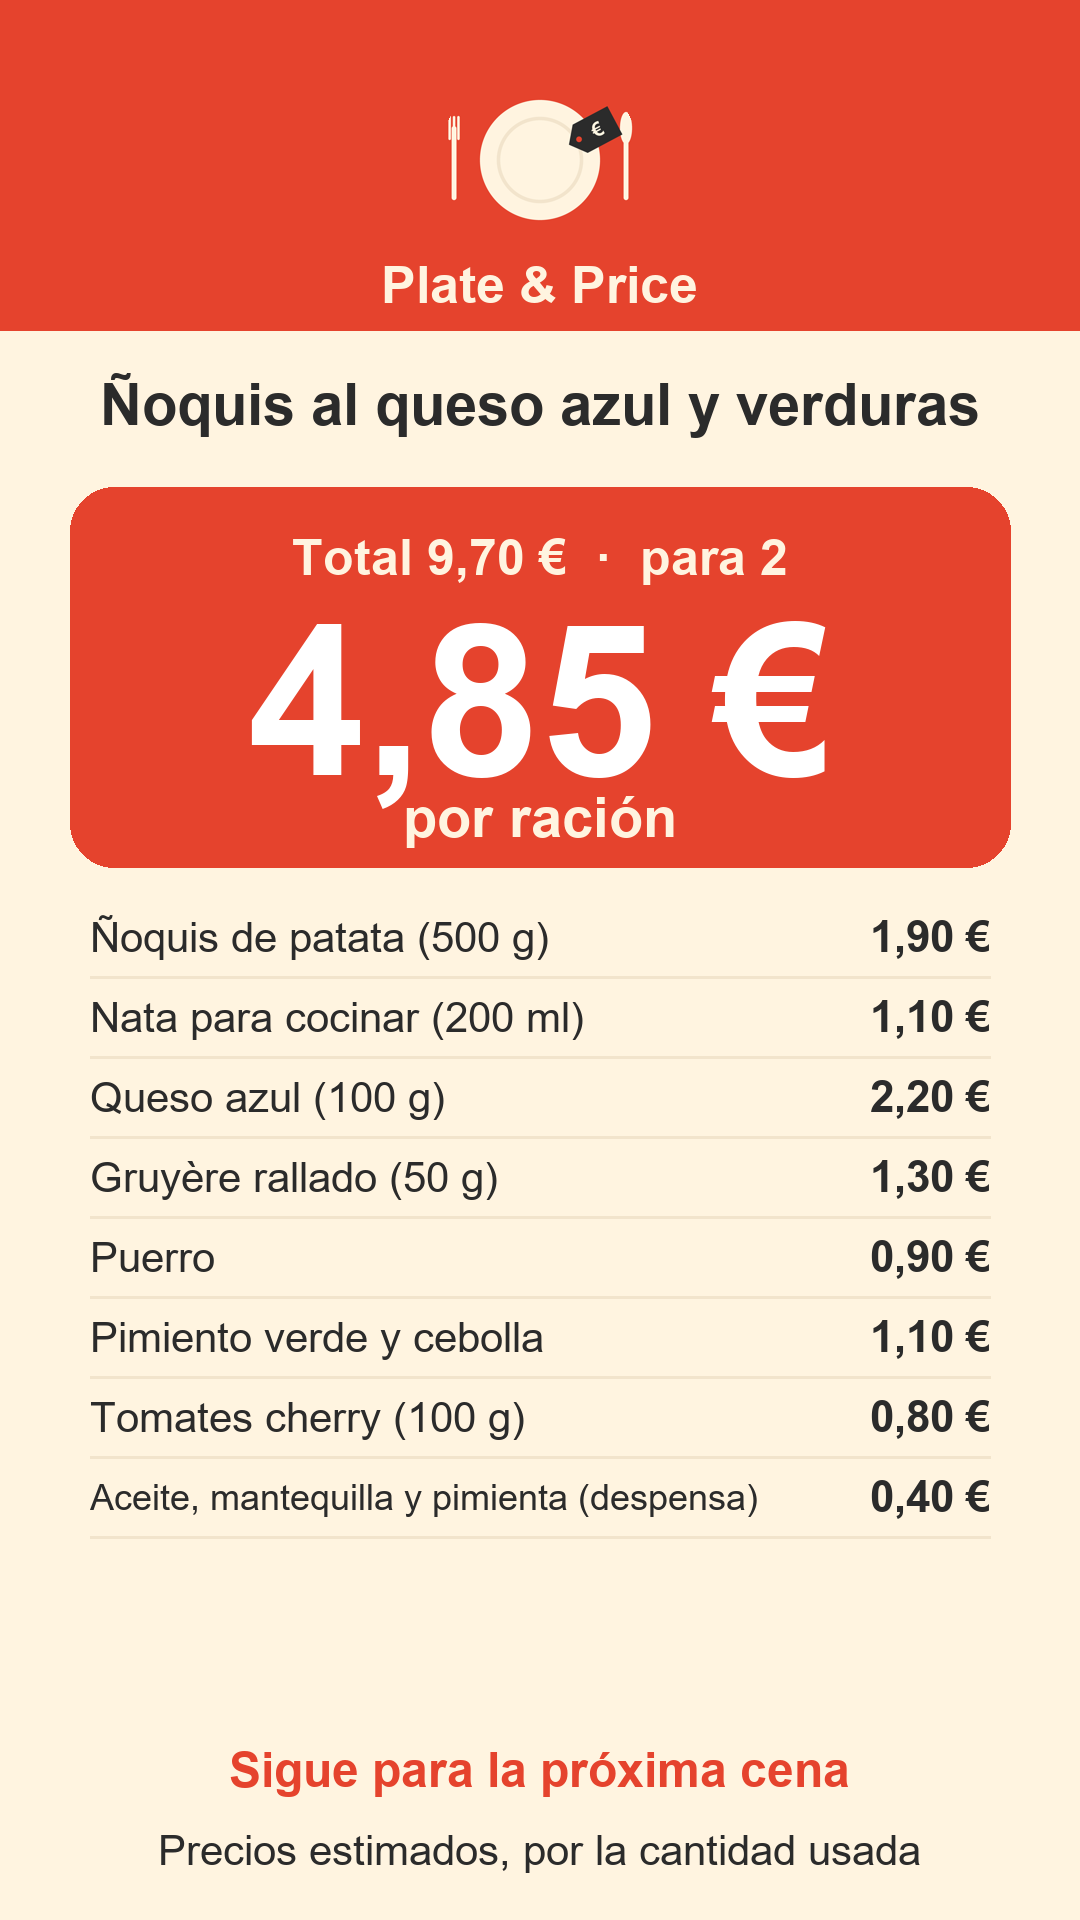
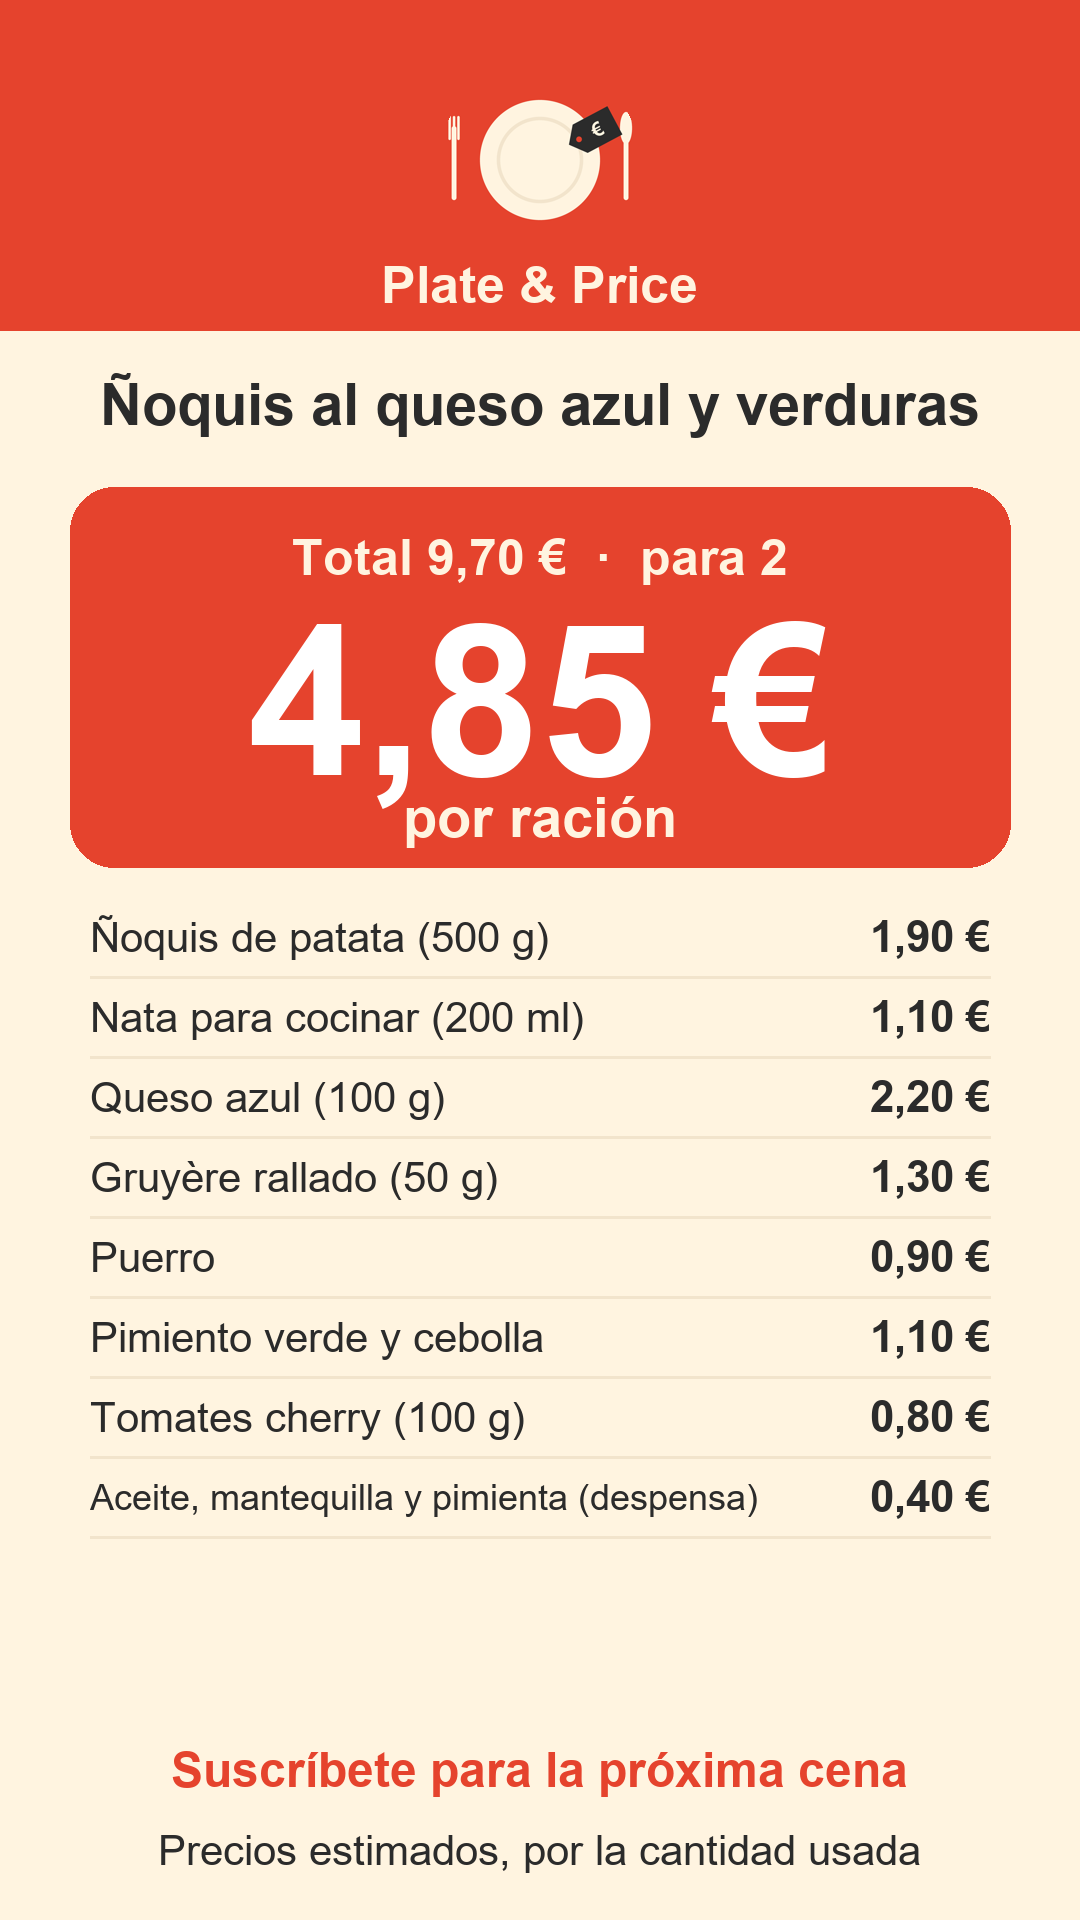
feat: gnocchi pass 3 scores and final tweaks (caption fade, Spanish script, end card follow line)

Changed region(s): [[0.1528, 0.9062, 0.8556, 0.9375]]

diff --git a/plate-and-price/scripts/make_description.py b/plate-and-price/scripts/make_description.py
@@ -22,7 +22,7 @@ T = {
         "total": "Total {total} for {n}, which is {per} a serving.",
         "chapters": "Chapters",
         "music": "Music: {song} by {artist} ({license})",
-        "short_price": "The whole dinner for {n} costs about {total}, so {per} a serving.",
+        "short_price": "The whole dinner for {n} costs about {total}, so {per} a serving (estimated prices, for the amount used).",
     },
     "es": {
         "short_title": "{title} #Shorts",
@@ -31,7 +31,7 @@ T = {
         "total": "Total {total} para {n}, es decir {per} por ración.",
         "chapters": "Capítulos",
         "music": "Música: {song} de {artist} ({license})",
-        "short_price": "La cena entera para {n} cuesta unos {total}, o sea {per} por ración.",
+        "short_price": "La cena entera para {n} cuesta unos {total}, o sea {per} por ración (precios estimados, por la cantidad usada).",
     },
 }
 

diff --git a/plate-and-price/scripts/edit_short.py b/plate-and-price/scripts/edit_short.py
@@ -57,7 +57,7 @@ def write_ass(path, cues, w, h, st):
         f"{st.get('margin_l', 60)},{st.get('margin_r', 60)},{st['margin_v']},1\n\n"
         "[Events]\nFormat: Layer,Start,End,Style,Name,MarginL,MarginR,MarginV,Effect,Text\n"
     )
-    lines = [f"Dialogue: 0,{ass_time(a)},{ass_time(b)},Cap,,0,0,0,,{{\\fad(120,120)}}{t.replace(chr(10), chr(92) + 'N')}"
+    lines = [f"Dialogue: 0,{ass_time(a)},{ass_time(b)},Cap,,0,0,0,,{{\\fad(120,0)}}{t.replace(chr(10), chr(92) + 'N')}"
              for a, b, t in cues]
     Path(path).write_text(head + "\n".join(lines) + "\n", encoding="utf-8")
 

diff --git a/plate-and-price/scripts/make_endcard.py b/plate-and-price/scripts/make_endcard.py
@@ -126,6 +126,8 @@ def draw(video_id, kind, lang):
         d.text((cx, 640), money(per, cur), font=font(190), fill="white", anchor="mm")
         d.text((cx, 770), lab["per"], font=font(56), fill=c["cream"], anchor="mm")
         d.text((cx, 850), lab["serves"].format(n=price["servings"]), font=font(40), fill=c["cream"], anchor="mm")
+        if lab.get("cta"):
+            d.text((cx, 940), lab["cta"], font=font(44), fill="white", anchor="mm")
 
     out = vdir / f"endcard_{kind}_{lang}.png"
     img.save(out)

diff --git a/plate-and-price/review/history/seven-agent-scores.md b/plate-and-price/review/history/seven-agent-scores.md
@@ -40,3 +40,18 @@ Shared agents (engagement, craft, audio-voice on the music-only short) give one 
 | **average** | **6.8** | **6.8** | **6.8** | **6.6** |
 Open fixes from this pass (not yet applied): amounts in the captions, richer Spanish lines, hook and final shot not both Gruyere, murky leek shots, short descriptions with ingredients and budget tags, "whole packs cost more" on the end cards.
 Udon shorts: the first review pass was started and its results are not recorded here yet.
+
+## gnocci-blue-cheese-and-veggies, third pass (captions larger and warm yellow, language split)
+| Agent | short EN | short ES | video EN | video ES |
+|---|---|---|---|---|
+| audience-sociologist | 8 | 7 | 7 | 7 |
+| marketing-strategist | 8 | 7 | 7 | 7 |
+| recipe-price-checker | 7 | 7 | 8 | 7.5 |
+| discoverability-strategist | 6 | 7 | 6 | 7 |
+| audio-voice-reviewer | 7 | 7 | 7 | 6 |
+| engagement-analyst (shared) | 8 | 8 | 7 | 7 |
+| video-craft-editor (shared) | 7 | 7 | 7 | 7 |
+| **average** | **7.3** | **7.1** | **7.0** | **6.9** |
+Progression of the averages (short EN / short ES / video EN / video ES): first pass 6.1 / 6.3 / 6.1 / 6.1, second pass 6.8 / 6.8 / 6.8 / 6.6, third pass 7.3 / 7.1 / 7.0 / 6.9.
+Final tweaks after this pass (not re-reviewed): caption fade-out removed, Spanish script lines with clearer subjects, follow line on the video end card, prices-for-the-amount-used note in the short descriptions, extra tags.
+Open: the English title is a hybrid ("Gnocchi al Blue Cheese and Veggies"); the discoverability agent suggests an owner-approved dish-name-only alternative. Spanish voice lines within 0.1-0.4 s of their window. Hook caption on the video (no voice) not added.
